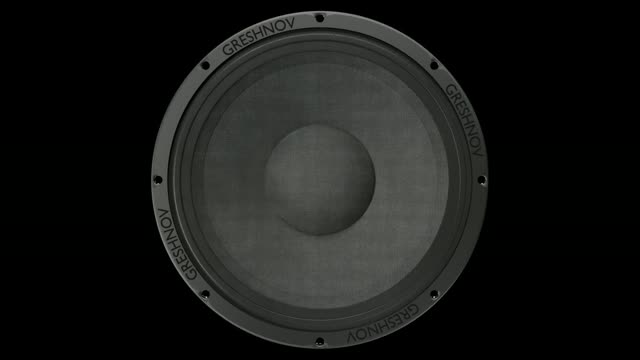
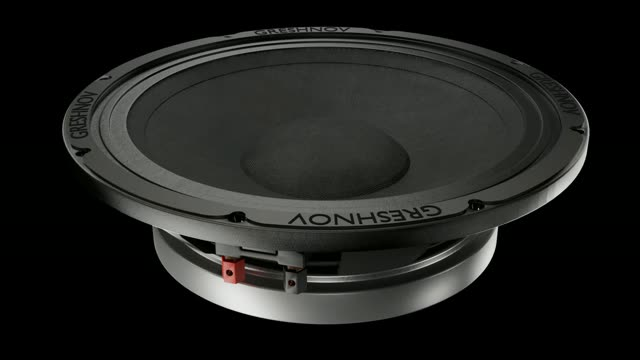
feat: постеры у всех роликов, ссылки на YouTube Shorts вместо ленты канала
- media.mjs делает poster/NN.jpg из кадра, где затемнение уже разошлось, и пишет poster в portfolio.json
- конкретные шортсы у Railway Station, Lightcycle Metro, UMMC, SWIPE и Death of a Pirate
- у Sci-Fi Gun убран чужой ролик (это был шортс Railway Station)
- обновлена миниатюра Loudspeaker

diff --git a/PROJECT.md b/PROJECT.md
@@ -12,6 +12,7 @@
     site/assets/thumbs/          сжатые миниатюры карточек, копии первого кадра галереи
     site/assets/gallery/<id>/    галереи рендеров по каждому проекту (макс. сторона 1600px)
     site/assets/gallery/<id>/sm/ те же рендеры высотой 480px для ленты галереи
+    site/assets/gallery/<id>/poster/ постеры роликов (кадр после затемнения, до 1280px, только JPEG)
     site/assets/fonts/           woff2 Archivo и JetBrains Mono, подключены локально
     site/favicon.ico             иконка 48×48 в корне — её ищут поисковики (Яндекс); рядом
                                  assets/favicon-120.png и favicon.svg, все из apple-touch-icon.png
@@ -132,7 +133,9 @@ Rules → Redirect Rules, статус 301. Нужные правила `tools/s
     - новое видео — `site/assets/gallery/<id>/01.mov` (или `.mp4`, `.webm`, `.mkv`…): станет
       `01.mp4`, h264, макс. сторона 1920px, без звука, плюс `sm/01.mp4` до 960px для превью
       в карточке, и допишется в `media` как `t:"video"`; кладите оригинал рендера — из уже
-      сжатого файла Full HD не получится;
+      сжатого файла Full HD не получится; постер `poster/01.jpg` скрипт делает сам — берёт первый кадр,
+      где затемнение уже разошлось (40% от черного до самого яркого кадра первых 10 с), и пишет `poster`
+      в `media`; свой постер — просто указать его путь в `poster`, скрипт его не тронет;
       у работы без рендеров миниатюра карточки берётся из первого кадра видео;
     - замена — новый файл с тем же именем (`01.jpg`, `hero-robot.png`, `showreel.mov`…);
       номер без нуля считается тем же слотом: `1.jpg` станет `01.jpg`.
